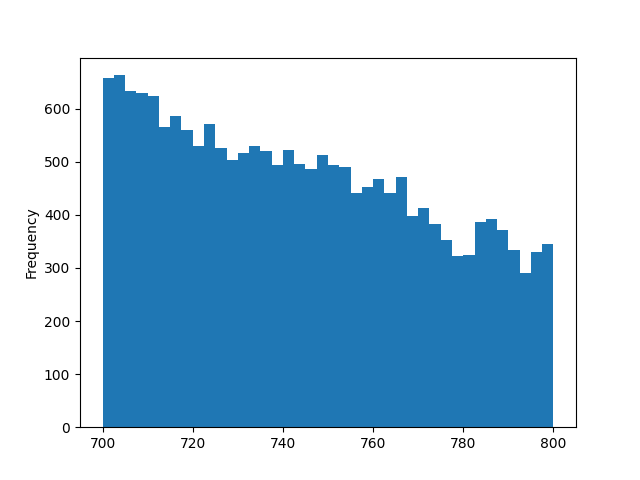
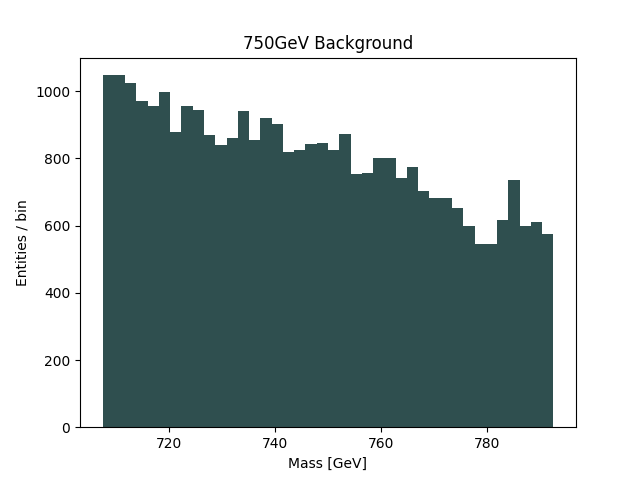
Created and polished all histograms. Further consideration may need to be done on bins and range delta.

diff --git a/plot_hist.py b/plot_hist.py
@@ -1,4 +1,5 @@
 # Does the physics calulations
+from cProfile import label
 from operator import index
 import pandas as pd
 import numpy as np
@@ -8,96 +9,108 @@ import os
 
 ## Calculates invariant mass for two electron collision
 def invariant_mass(pT1,phi1,eta1,pT2,phi2,eta2):
+    
     # Electron mass in GeV
     mass_e = .510998950 * (10**-3)
+    
     # Momentum Vectors.
     p1 = [ pT1*np.cos(phi1), pT1*np.sin(phi1), pT1*np.sinh(eta1) ]
     p2 = [ pT2*np.cos(phi2), pT2*np.sin(phi2), pT2*np.sinh(eta2) ]
     pdot = p1[0]*p2[0] + p1[1]*p2[1] + p1[2]*p2[2]
+    
     # Energies.
     E1 = np.sqrt( (mass_e**2) + (p1[0]**2) + (p1[1]**2) + (p1[2]**2) )
     E2 = np.sqrt( (mass_e**2) + (p2[0]**2) + (p2[1]**2) + (p2[2]**2) )
+    
     # Invariant Mass Calulation.
     return np.sqrt( 2*(mass_e**2 + E1*E2 - pdot) )
 
 
 ## Calculating and plotting histograms.
 # Initial variables.
-hist_weights = pd.read_csv("hist_weights.csv",index_col=0)
-bkgd_to_sgnl = {"175":"200","275":"375","450":"500","650":"750","900":"1000"}
+hist_wght = pd.read_csv("hist_weights.csv",index_col=0)
+bkgd_to_sgnl = {"175":"200","275":"300","375":"400","450":"500","650":"750","900":"1000"}
 i = 0
-# Parsing through .csv data
+
+## Parsing through .csv data
 for filename in os.listdir("data\\csv\\background"):
-    #*** For now, I will only be testing on the example case from the assignment. 
-    #*** Delete before finalization.
-    if "650" not in filename:
-        i+=1
-        continue
 
     ## Reads each .csv as Pandas dataframe. 
     # Reads background and signal data.
     with open(os.path.join("data\\csv\\background",
               filename), 
               'r') as file:
-        bkgd_df = pd.read_csv(file,index_col=0)
+        data_bkgd = pd.read_csv(file,index_col=0)
     with open(os.path.join("data\\csv\\signal", 
                             "zp_mzp"+bkgd_to_sgnl[filename[6:9]]+"_electrons.csv"),
                             'r') as file:
-        sgnl_df = pd.read_csv(file,index_col=0)
+        data_sgnl = pd.read_csv(file,index_col=0)
+   
     # Calculates invariant mass for bacgkround and signal.  
-    bkgd_inv_mass = invariant_mass(pT1 = bkgd_df.loc[:,"Momenta 1"],
-                              phi1 = bkgd_df.loc[:,"Phi 1"],
-                              eta1 = bkgd_df.loc[:,"Eta 1"],
-                              pT2 = bkgd_df.loc[:,"Momenta 2"],
-                              phi2 = bkgd_df.loc[:,"Phi 2"],
-                              eta2 = bkgd_df.loc[:,"Eta 2"])
-    sgnl_inv_mass = invariant_mass(pT1 = sgnl_df.loc[:,"Momenta 1"],
-                              phi1 = sgnl_df.loc[:,"Phi 1"],
-                              eta1 = sgnl_df.loc[:,"Eta 1"],
-                              pT2 = sgnl_df.loc[:,"Momenta 2"],
-                              phi2 = sgnl_df.loc[:,"Phi 2"],
-                              eta2 = sgnl_df.loc[:,"Eta 2"])
+    imass_bkgd = invariant_mass(pT1 = data_bkgd.loc[:,"Momenta 1"],
+                              phi1 = data_bkgd.loc[:,"Phi 1"],
+                              eta1 = data_bkgd.loc[:,"Eta 1"],
+                              pT2 = data_bkgd.loc[:,"Momenta 2"],
+                              phi2 = data_bkgd.loc[:,"Phi 2"],
+                              eta2 = data_bkgd.loc[:,"Eta 2"])
+    
+    imass_sgnl = invariant_mass(pT1 = data_sgnl.loc[:,"Momenta 1"],
+                              phi1 = data_sgnl.loc[:,"Phi 1"],
+                              eta1 = data_sgnl.loc[:,"Eta 1"],
+                              pT2 = data_sgnl.loc[:,"Momenta 2"],
+                              phi2 = data_sgnl.loc[:,"Phi 2"],
+                              eta2 = data_sgnl.loc[:,"Eta 2"])
 
-    ## Constructing both histograms.
-    # Intiial Variables
-    include_signal = False
-    weight = 1
-    delta = 50
+    ## Initial variables for histogram construction.
+    # Histogram Weights.
+    wght_bkgd = hist_wght.loc[i,"Background Weight"]*np.ones(len(imass_bkgd.index))
+    wght_sgnl = hist_wght.loc[i,"Signal Weight"]*np.ones(len(imass_sgnl.index))
+    wght_comb = np.concatenate((wght_bkgd,wght_sgnl))
+
+    # Graph range and bin size
+    mass = hist_wght.loc[i,"Mass"]
+    delta = 20+.03*mass
     b=40
-    # One iteration for background, another for both background+signal
+    # Boolean for both iterations.
+    include_signal = False
+    
+    ## Constructing histograms.
+    # One iteration for background, another for both background+signal.
     for chart in range(2):
-        # Determine weight for signal+background histogram.
+
+        # Background+Signal histogram construction. 
         if include_signal:
-            weight = hist_weights.loc[i,"Background Weight"]
-        # Create background histogram.
-        mass = hist_weights.loc[i,"Mass"]
-        bkgd_hgram = bkgd_inv_mass.plot.hist(bins = b, 
-                        range = (mass-delta,mass+delta),
-                        weights = weight*np.ones(len(bkgd_inv_mass.index)))
-        # Save only-background histogram. Next iteration include signal.
+            imass_comb = pd.concat([imass_bkgd,imass_sgnl])
+            hist_sgnl = plt.hist(imass_comb,
+                                 bins = b, 
+                                 range = (mass-delta,mass+delta),
+                                 weights = wght_comb,
+                                 label = "Signal",
+                                 color = 'mediumturquoise')
+
+        # Background-Only histogram construction.
+        
+        bkgd_hist = imass_bkgd.plot.hist(bins = b, 
+                                        range = (mass-delta,mass+delta),
+                                        weights = wght_bkgd,
+                                        label= "Bkgd",
+                                        color= "darkslategray")
+        
+        # Labels for both histograms
+        plt.ylabel("Entities / bin")
+        plt.xlabel("Mass [GeV]")
+
+        # Label and save background-only histogram.
         if not include_signal:
+            plt.title(str(mass)+"GeV Background")
             plt.savefig("histograms\\"+str(mass)+"GeV_background.png")
             include_signal = True
-        
-        
-        # ISSUE TO RAISE IN CLASS!!!!!
-            # Should I add the signal dataset to the background dataset when forming the combined histogram?
-            # Right now, they are separate. 
-            # If I do, should I THEN assign the weight accordingly.
-            # Or, do I somehow change the weight of each of the two individual datasets?
-            # ^^^^ No, they have to be separate since singals are mere for the joint case
-            # Perhaps I just have to stack both histograms on top of each other somehow? Hmmmm.
 
-        # Include signal to histogram, then save. 
+
+        # Label and save background+signal histogram.
         else:
-            print("Including signal!")
-            weight = hist_weights.loc[i,"Signal Weight"]
-            print("Signal Weight",weight)
-            print("Signal inv_mass df", sgnl_inv_mass)
-            sgnl_hgram = sgnl_inv_mass.plot.hist(bins = b, 
-                        range = (mass-delta,mass+delta),
-                        weights = weight*np.ones(len(sgnl_inv_mass.index)))
-            plt.savefig("histograms\\"+str(mass)+"GeV_signal.png")
-    plt.show()
-    quit()
+            plt.title(str(mass)+"GeV Background+Signal")
+            plt.legend()
+            plt.savefig("histograms\\"+str(mass)+"GeV_signal-background.png")
+        plt.clf()
     i+=1
